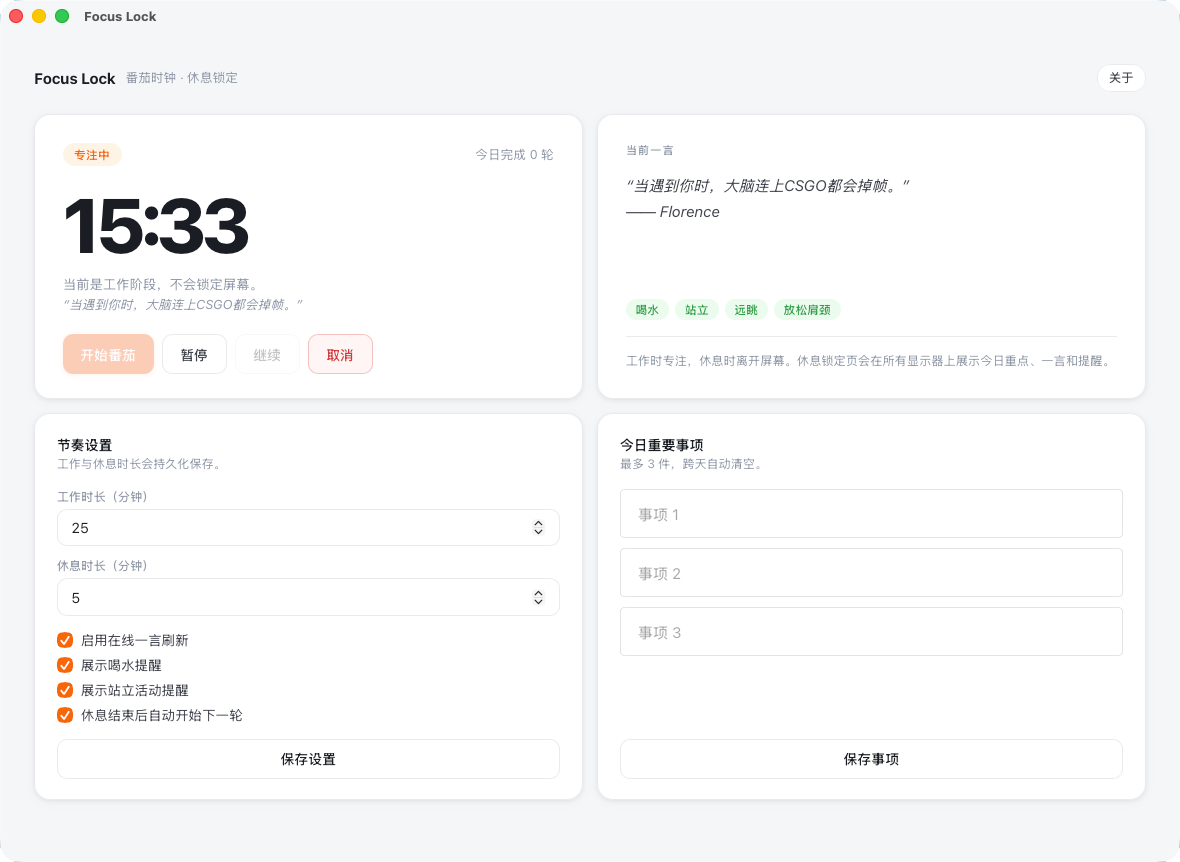
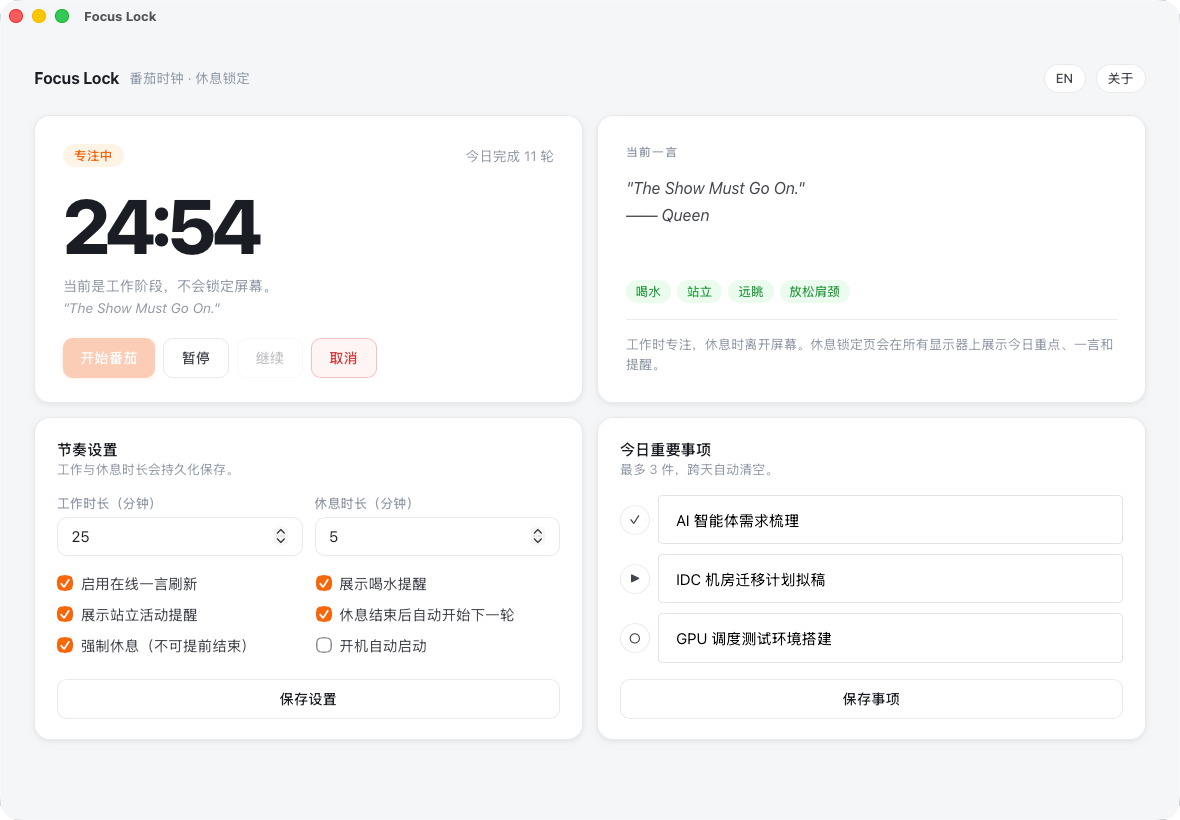
docs: add ENG docs

diff --git a/README-EN.md b/README-EN.md
@@ -1,0 +1,214 @@
+# Focus Lock
+
+A Pomodoro timer with forced break-time screen lock for macOS, Windows, and Linux.
+
+During focus sessions the timer runs normally. When a break starts, a full-screen overlay appears on **every connected display**, hiding the menu bar and Dock, and showing your daily tasks, a quote, and health reminders — so you actually step away from the screen.
+
+---
+
+## Features
+
+- **Pomodoro timer** — configurable focus and break durations, persisted across restarts
+- **Multi-display lock** — creates a full-screen overlay window on each monitor at break start
+- **macOS fullscreen isolation** — hides the menu bar and Dock during breaks, window level above the system status bar, Cmd+Option+Esc force-quit disabled
+- **Today's tasks** — up to 3 items, auto-cleared each day, shown on the lock screen
+- **Quotes** — fetched from the [hitokoto.cn](https://v1.hitokoto.cn/) API with a 24-hour cache; falls back to built-in copy when offline
+- **Health reminders** — water and stand-up reminders cycling on the lock screen
+- **Auto-restart** — optionally start the next focus round automatically after a break
+- **System tray** — hides to the tray when the main window is closed; right-click menu shows live timer state and phase controls
+- **Persistent settings** — all configuration is saved to the OS app config directory and survives restarts
+- **Chinese / English UI** — language toggle in the header, follows system locale by default
+
+## Screenshot
+
+Main window
+
+![Main window](focuslock-en.png)
+
+## System Requirements
+
+| Platform | Minimum version |
+|----------|----------------|
+| macOS | 10.15 Catalina |
+| Windows | 10 |
+| Linux | GTK 3 + WebKitGTK 4.0 (Ubuntu 20.04 / Fedora 35+) |
+
+---
+
+## Installation
+
+### macOS (DMG)
+
+Download the latest `.dmg` from the [Releases](https://github.com/acdiost/focus-lock/releases) page:
+
+- Apple Silicon (M-series): `Focus Lock_x.x.x_aarch64.dmg`
+- Intel: `Focus Lock_x.x.x_x64.dmg`
+
+Open the DMG and drag **Focus Lock** into the **Applications** folder.
+
+> **First-launch notice**: because the app is not notarized by Apple, macOS will warn "developer cannot be verified".
+> Right-click the app in Finder → **Open** → click **Open** again. After that, double-click works normally.
+
+### Windows (MSI)
+
+Download `Focus Lock_x.x.x_x64_en-US.msi` from the [Releases](https://github.com/acdiost/focus-lock/releases) page and run the installer.
+
+> Windows SmartScreen may display a warning because the binary is unsigned. Click **More info → Run anyway** to proceed.
+
+### Linux (AppImage / deb)
+
+Download the package that suits your distribution from the [Releases](https://github.com/acdiost/focus-lock/releases) page.
+
+**AppImage** (universal, no installation required):
+
+```bash
+chmod +x focus-lock_x.x.x_amd64.AppImage
+./focus-lock_x.x.x_amd64.AppImage
+```
+
+**deb package** (Debian / Ubuntu):
+
+```bash
+sudo dpkg -i focus-lock_x.x.x_amd64.deb
+```
+
+> The Linux build requires `libwebkit2gtk-4.0-37`, `libgtk-3-0`, and `libayatana-appindicator3-1` (tray support). Ubuntu 22.04+ ships the first two; install the tray library with `sudo apt install libayatana-appindicator3-1`.
+
+---
+
+## Development
+
+### Prerequisites
+
+| Tool | Notes |
+|------|-------|
+| [Node.js](https://nodejs.org/) 18+ | JavaScript runtime |
+| [Rust](https://rustup.rs/) stable 1.77+ | Backend compiler |
+| Xcode Command Line Tools | macOS only — `xcode-select --install` |
+| WebView2 + MSVC build tools | Windows only |
+| GTK 3 / WebKitGTK / AppIndicator | Linux only — see below |
+
+**Linux build dependencies** (Ubuntu / Debian):
+
+```bash
+sudo apt install libwebkit2gtk-4.0-dev libgtk-3-dev \
+  libayatana-appindicator3-dev librsvg2-dev patchelf
+```
+
+Fedora / RHEL:
+
+```bash
+sudo dnf install webkit2gtk4.0-devel gtk3-devel \
+  libayatana-appindicator-gtk3-devel librsvg2-devel patchelf
+```
+
+### Quick start
+
+```bash
+# Clone the repository
+git clone https://github.com/acdiost/focus-lock.git
+cd focus-lock
+
+# Install JS dependencies
+npm install
+
+# Start dev mode (hot-reload)
+npm run dev
+```
+
+The frontend (`src/`) is plain HTML/CSS/JS with no build step — changes are visible immediately after the WebView refreshes.
+
+### Run unit tests
+
+```bash
+cd src-tauri && cargo test
+```
+
+### Regenerate app icons
+
+```bash
+node scripts/gen-icons.mjs
+```
+
+---
+
+## Build & Package
+
+```bash
+npm run build
+```
+
+Build artifacts:
+
+| Platform | Output |
+|----------|--------|
+| macOS | `src-tauri/target/release/bundle/dmg/Focus Lock_x.x.x_aarch64.dmg` |
+| Windows | `src-tauri/target/release/bundle/msi/Focus Lock_x.x.x_x64_en-US.msi` |
+| Linux | `src-tauri/target/release/bundle/appimage/focus-lock_x.x.x_amd64.AppImage` |
+| Linux | `src-tauri/target/release/bundle/deb/focus-lock_x.x.x_amd64.deb` |
+
+> Tray support is enabled via the `tray` Cargo feature, which is already wired into the npm scripts — no manual flags needed.
+
+### Code signing (optional)
+
+The default configuration ships unsigned. For notarized distribution, update `src-tauri/tauri.conf.json`:
+
+```json
+"macOS": {
+  "signingIdentity": "Developer ID Application: Your Name (XXXXXXXXXX)",
+  "hardenedRuntime": true,
+  "entitlements": "entitlements.plist"
+}
+```
+
+---
+
+## Project Structure
+
+```
+focus-lock/
+├── src/                    # Frontend (no build step)
+│   ├── index.html          # Single page: main timer UI + break lock view
+│   ├── app.js              # All client-side logic
+│   └── style.css           # Styles
+├── src-tauri/
+│   ├── src/main.rs         # All backend logic (~900 lines)
+│   ├── icons/              # App icons (generated by scripts/gen-icons.mjs)
+│   └── tauri.conf.json     # Tauri configuration
+└── scripts/
+    └── gen-icons.mjs       # Icon generation script (no extra dependencies)
+```
+
+### Core modules
+
+| Module | Description |
+|--------|-------------|
+| `PersistentState` | Serialized to JSON in the OS app config dir; stores settings, daily tasks, quote cache, and completed cycle count; auto-resets daily data when the date changes |
+| `RuntimeState` | In-memory state: current phase (`Idle` / `Focus` / `Break`), remaining seconds, pause flag |
+| Background timer thread | Ticks every second, drives phase transitions, pushes a `Snapshot` to the frontend via `pomodoro://state` events |
+| `sync_lock_windows` | Creates a borderless full-screen `WebviewWindow` for each monitor at break start; on macOS also sets the window level to `NSScreenSaverWindowLevel` and hides the menu bar |
+| `build_tray_menu` | Dynamically builds the tray right-click menu based on current phase; rebuilt on every state push |
+| `tray_icon` | 22×22 anti-aliased clock face drawn pixel-by-pixel in Rust; uses macOS template mode to auto-adapt to light/dark themes |
+
+---
+
+## Known Limitations
+
+- App-level lock only, not a system-level screen lock. macOS is significantly hardened via elevated window level and hidden menu bar, but a determined user can still break out under extreme circumstances.
+- Hot-plugging a monitor during a break does not create a lock window for the new display; the lock will be recreated on the next break.
+- On Linux, fullscreen lock effectiveness depends on the window manager. Tiling WMs such as i3 or Sway may not fully prevent workspace switching.
+- The Windows binary is unsigned; SmartScreen may prompt a warning on first install.
+
+---
+
+## Tech Stack
+
+- [Tauri v1](https://tauri.app/) — Rust backend + WebView shell
+- [chrono](https://crates.io/crates/chrono) / [reqwest](https://crates.io/crates/reqwest) / [serde](https://crates.io/crates/serde) — time, networking, serialization
+- Frontend: vanilla HTML / CSS / JavaScript, no framework, no build tool
+
+---
+
+## License
+
+MIT © 2026 [acdiost](https://github.com/acdiost)

diff --git a/CLAUDE.md b/CLAUDE.md
@@ -1,0 +1,39 @@
+# CLAUDE.md
+
+This file provides guidance to Claude Code (claude.ai/code) when working with code in this repository.
+
+## Commands
+
+```bash
+# Development (hot-reload)
+npm run dev
+
+# Production build
+npm run build
+
+# Rust unit tests
+cd src-tauri && cargo test
+```
+
+The frontend (`src/`) is served directly with no build step — changes to HTML/CSS/JS are reflected immediately in dev mode.
+
+## Architecture
+
+Focus Lock is a Tauri desktop app: a Pomodoro timer that locks all displays during breaks by covering them with full-screen windows showing tasks, quotes, and reminders.
+
+**Frontend** (`src/`) — plain JS (ES modules), no framework, no TypeScript:
+- `index.html` — single page with two views: main timer UI and break lock screen
+- `app.js` — all client logic; calls Rust via `window.__TAURI__.invoke()` and subscribes to `pomodoro://state` events via `window.__TAURI__.event.listen()`
+
+**Backend** (`src-tauri/src/main.rs`) — all Rust logic in a single file (~730 lines):
+- `PersistentState` — serialized to JSON in the OS app config dir; holds settings, tasks, quote cache, completed cycle count; auto-resets daily state when the date changes
+- `RuntimeState` — in-memory; holds current phase (`Idle`/`Focus`/`Break`), remaining seconds, pause flag, and current quote
+- Background timer thread ticks every second, transitions phases, and emits `pomodoro://state` events to the frontend
+- Break lock is implemented by creating a borderless full-screen `WebviewWindow` for each monitor at break start and destroying them at break end
+
+**Tauri commands exposed to the frontend:**
+`get_snapshot`, `start_pomodoro`, `pause_pomodoro`, `resume_pomodoro`, `cancel_pomodoro`, `get_today_tasks`, `set_today_tasks`, `get_settings`, `save_settings`, `enter_break_lock`, `exit_break_lock`
+
+**Quotes:** Fetched from `hitokoto.cn` with a 24-hour cache in `PersistentState`; a hardcoded local fallback list is used when offline (`main.rs` line ~80).
+
+**Tauri config** (`src-tauri/tauri.conf.json`): `allowlist.all: true` (all Tauri APIs enabled), no CSP, main window is 1180×820. Features `tray` and `custom-protocol` are required at build time (already in npm scripts).
